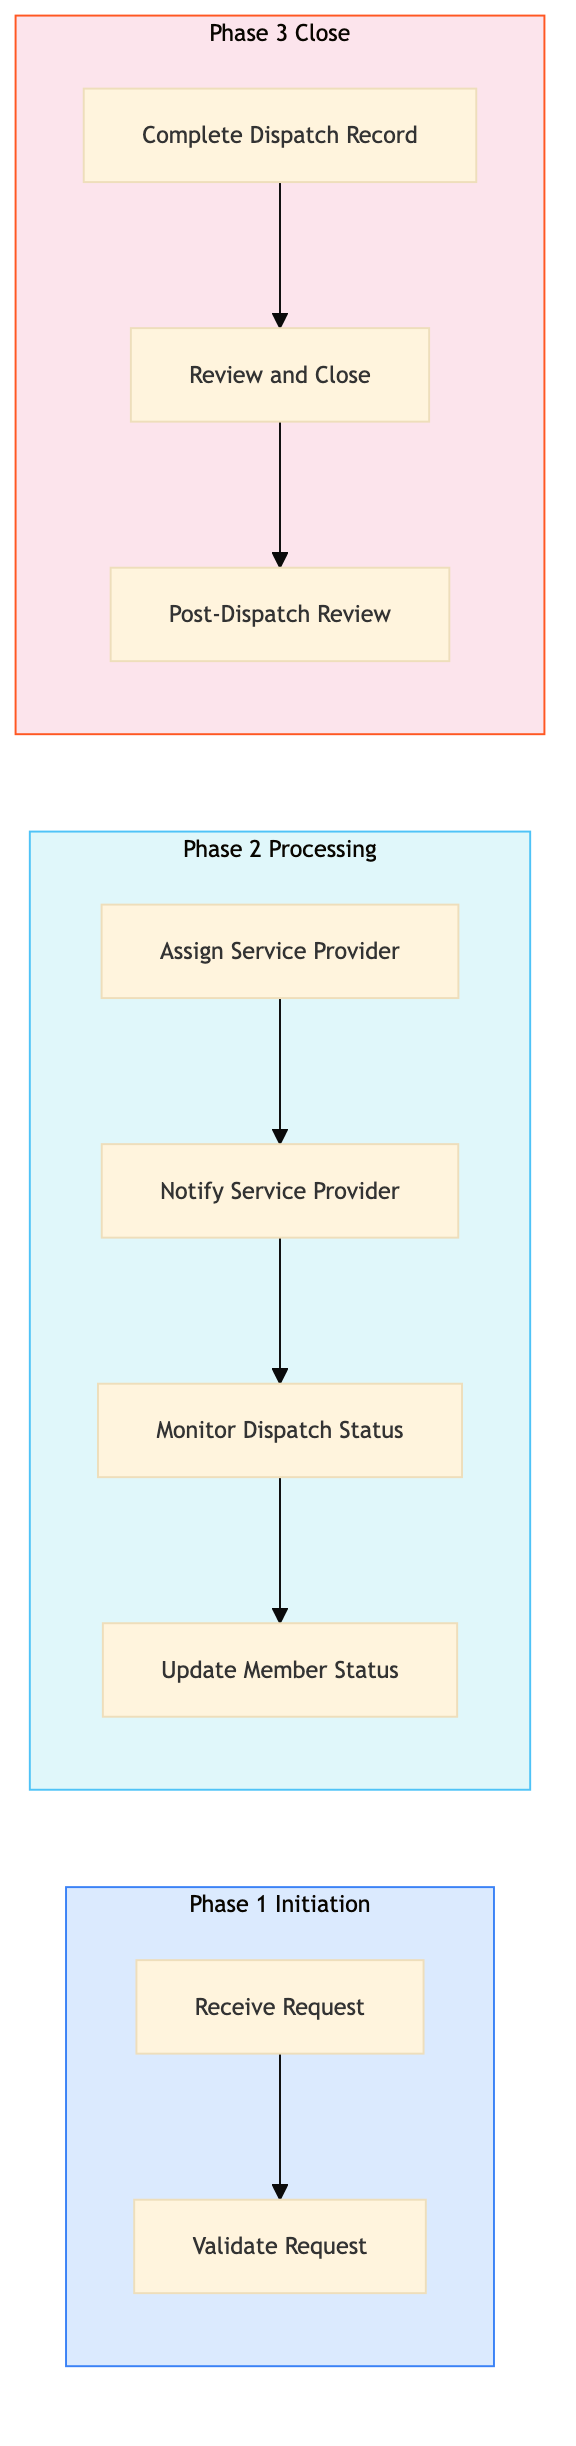
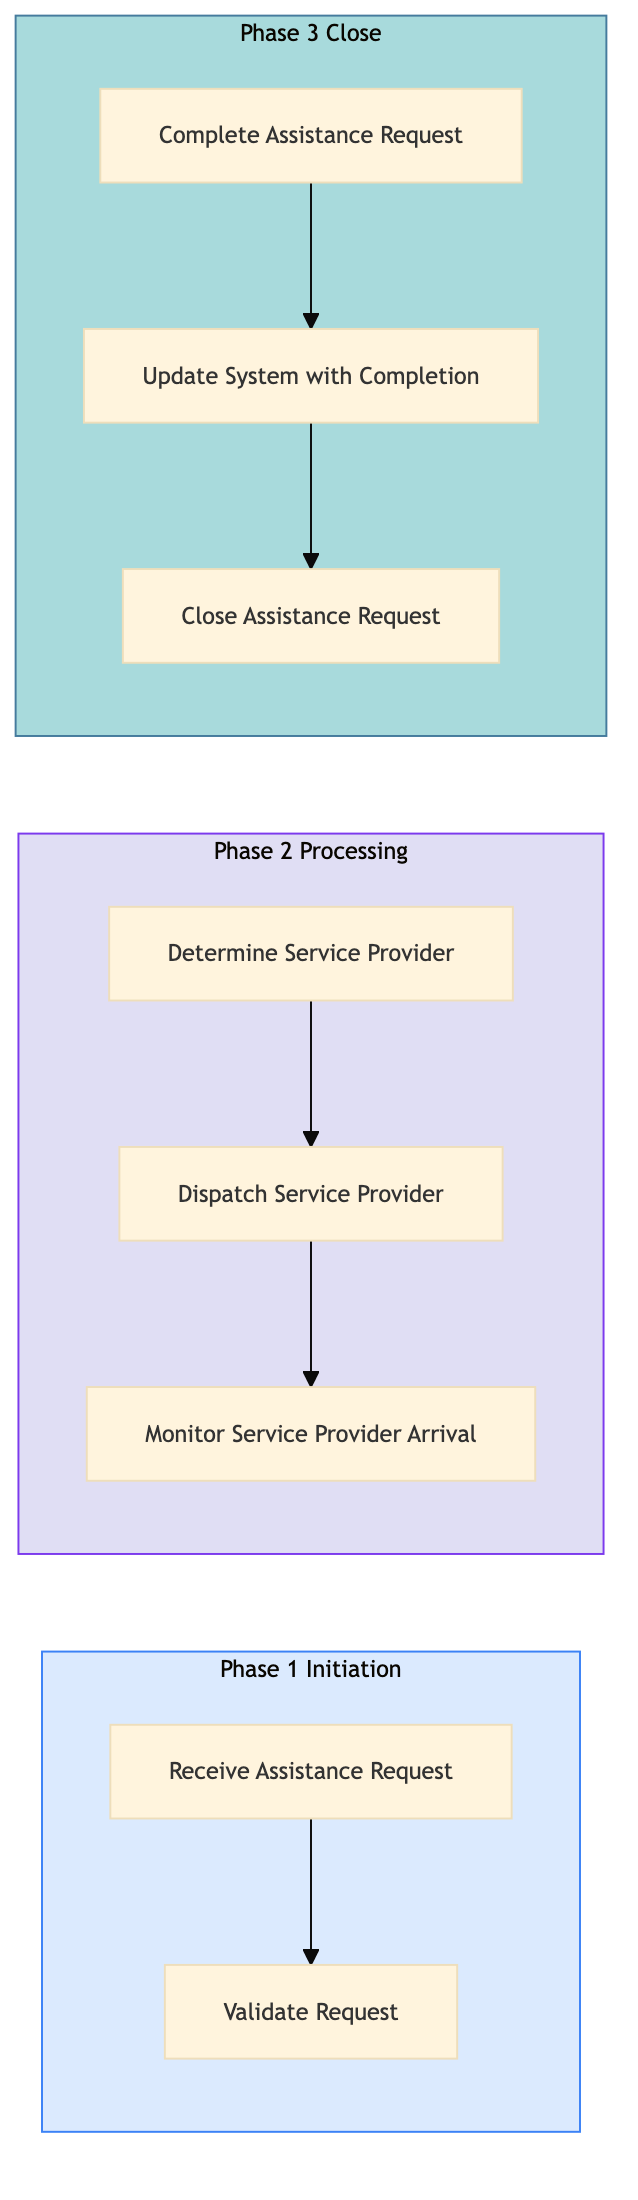
feat: add SHARED-RS-DI-04 — Service Provider Dispatch via Agero Swoop

diff --git a/shared-roadside/roadside-dispatch/shared-rs-di-04.html b/shared-roadside/roadside-dispatch/shared-rs-di-04.html
@@ -23,40 +23,16 @@
     <div class="nav-l2-group">
       <a class="nav-l2-title" href="../../shared-membership/membership-enrolment/index.html">Membership Enrolment & Sales</a>
       <div class="nav-l3-list">
-        <a class="nav-l3" href="../../shared-membership/membership-enrolment/shared-mb-en-01.html">SHARED-MB-EN-01 &mdash; New Member Walk-In Enrolment (Branch)</a>
-        <a class="nav-l3" href="../../shared-membership/membership-enrolment/shared-mb-en-02.html">SHARED-MB-EN-02 &mdash; Online Membership Self-Enrolment (Web/Ap</a>
-        <a class="nav-l3" href="../../shared-membership/membership-enrolment/shared-mb-en-03.html">SHARED-MB-EN-03 &mdash; Phone Enrolment via Contact Centre</a>
-        <a class="nav-l3" href="../../shared-membership/membership-enrolment/shared-mb-en-04.html">SHARED-MB-EN-04 &mdash; Affiliate and Employer Group Enrolment</a>
-        <a class="nav-l3" href="../../shared-membership/membership-enrolment/shared-mb-en-05.html">SHARED-MB-EN-05 &mdash; Membership Tier Selection and Upsell</a>
-        <a class="nav-l3" href="../../shared-membership/membership-enrolment/shared-mb-en-06.html">SHARED-MB-EN-06 &mdash; Payment Processing and First-Year Billin</a>
-        <a class="nav-l3" href="../../shared-membership/membership-enrolment/shared-mb-en-07.html">SHARED-MB-EN-07 &mdash; Welcome Kit and Digital Card Issuance</a>
-        <a class="nav-l3" href="../../shared-membership/membership-enrolment/shared-mb-en-08.html">SHARED-MB-EN-08 &mdash; Duplicate Member Detection and Merge</a>
       </div>
     </div>
     <div class="nav-l2-group">
       <a class="nav-l2-title" href="../../shared-membership/membership-renewal/index.html">Membership Renewal & Retention</a>
       <div class="nav-l3-list">
-        <a class="nav-l3" href="../../shared-membership/membership-renewal/shared-mb-rn-01.html">SHARED-MB-RN-01 &mdash; Annual Renewal Notice Generation and Dis</a>
-        <a class="nav-l3" href="../../shared-membership/membership-renewal/shared-mb-rn-02.html">SHARED-MB-RN-02 &mdash; Auto-Renewal Processing (Credit Card on </a>
-        <a class="nav-l3" href="../../shared-membership/membership-renewal/shared-mb-rn-03.html">SHARED-MB-RN-03 &mdash; Lapsed Member Reinstatement Campaign</a>
-        <a class="nav-l3" href="../../shared-membership/membership-renewal/shared-mb-rn-04.html">SHARED-MB-RN-04 &mdash; Membership Upgrade and Tier Change Proce</a>
-        <a class="nav-l3" href="../../shared-membership/membership-renewal/shared-mb-rn-05.html">SHARED-MB-RN-05 &mdash; Associate and Household Member Add-On Pr</a>
-        <a class="nav-l3" href="../../shared-membership/membership-renewal/shared-mb-rn-06.html">SHARED-MB-RN-06 &mdash; Cancellation Request Handling and Save O</a>
-        <a class="nav-l3" href="../../shared-membership/membership-renewal/shared-mb-rn-07.html">SHARED-MB-RN-07 &mdash; Renewal Rate Review and Pricing Update</a>
-        <a class="nav-l3" href="../../shared-membership/membership-renewal/shared-mb-rn-08.html">SHARED-MB-RN-08 &mdash; Membership Winback Campaign (12-36 Month</a>
       </div>
     </div>
     <div class="nav-l2-group">
       <a class="nav-l2-title" href="../../shared-membership/member-services/index.html">Member Services & Benefits</a>
       <div class="nav-l3-list">
-        <a class="nav-l3" href="../../shared-membership/member-services/shared-mb-sv-01.html">SHARED-MB-SV-01 &mdash; Member Discount Partner Redemption</a>
-        <a class="nav-l3" href="../../shared-membership/member-services/shared-mb-sv-02.html">SHARED-MB-SV-02 &mdash; Passport Photo Service Delivery (Branch)</a>
-        <a class="nav-l3" href="../../shared-membership/member-services/shared-mb-sv-03.html">SHARED-MB-SV-03 &mdash; International Driving Permit (IDP) Proce</a>
-        <a class="nav-l3" href="../../shared-membership/member-services/shared-mb-sv-04.html">SHARED-MB-SV-04 &mdash; Notary and Document Authentication Servi</a>
-        <a class="nav-l3" href="../../shared-membership/member-services/shared-mb-sv-05.html">SHARED-MB-SV-05 &mdash; Member Portal Profile and Preferences Ma</a>
-        <a class="nav-l3" href="../../shared-membership/member-services/shared-mb-sv-06.html">SHARED-MB-SV-06 &mdash; Lost and Stolen Membership Card Replacem</a>
-        <a class="nav-l3" href="../../shared-membership/member-services/shared-mb-sv-07.html">SHARED-MB-SV-07 &mdash; Member Data Privacy Request (CCPA and PI</a>
-        <a class="nav-l3" href="../../shared-membership/member-services/shared-mb-sv-08.html">SHARED-MB-SV-08 &mdash; Member Satisfaction Survey and NPS Track</a>
       </div>
     </div>
   </div>
@@ -349,7 +325,7 @@
           <span class="pid-badge org-badge-shared">SHARED</span>
           SHARED-RS-DI-04 &mdash; Service Provider Dispatch via Agero Swoop
         </h1>
-        <p>This process handles the dispatch of service providers for roadside assistance requests using Agero Swoop. It ensures timely and efficient response to members' needs.</p>
+        <p>The process of dispatching service providers via Agero Swoop for roadside assistance requests.</p>
       </div>
 
       <!-- BPMN Diagram -->
@@ -376,9 +352,9 @@
             <tr><th>L2 Process</th><td>Dispatch Operations</td></tr>
             <tr><th>L3 Name</th><td>Service Provider Dispatch via Agero Swoop</td></tr>
             <tr><th>Trigger</th><td>A member initiates a roadside assistance request through the AAA App or by contacting customer service.</td></tr>
-            <tr><th>Outcome</th><td>The requested service provider is dispatched to assist the member, and the dispatch details are recorded in the system for tracking and reporting purposes.</td></tr>
-            <tr><th>Org Notes</th><td>CAA SCO may have additional regulatory requirements due to FSRA oversight. CAA SCO also uses different telematics systems (CAA Connect) compared to AAA Northeast's DriveAssist.</td></tr>
-            <tr><th>Systems</th><td><span class="sys-tag aaa-app">AAA App</span> <span class="sys-tag salesforce">Salesforce</span> <span class="sys-tag sap">SAP S/4HANA</span> <span class="sys-tag guidewire">Guidewire PolicyCenter</span> <span class="sys-tag agero">Agero Swoop</span></td></tr>
+            <tr><th>Outcome</th><td>A qualified service provider is dispatched to assist the member with their roadside issue.</td></tr>
+            <tr><th>Org Notes</th><td>CAA SCO uses additional telematics data from CAA Connect for dispatch decisions, whereas AAA Northeast relies solely on Agero Swoop.</td></tr>
+            <tr><th>Systems</th><td><span class="sys-tag aaa-app">AAA App</span> <span class="sys-tag salesforce">Salesforce</span> <span class="sys-tag guidewire">Guidewire PolicyCenter</span> <span class="sys-tag agero">Agero Swoop</span> <span class="sys-tag guidewire">Guidewire ClaimCenter</span></td></tr>
           </table>
         </div>
       </div>
@@ -399,109 +375,97 @@
               <tbody>
         <tr>
           <td class="step-num">1.1</td>
-          <td>Receive Request</td>
-          <td>Roadside Assistance Dispatcher</td>
+          <td>Receive Assistance Request</td>
+          <td>Roadside Assistance Coordinator</td>
           <td><span class="sys-tag salesforce">AAA App / Salesforce</span></td>
-          <td>Member request details</td>
+          <td>Member's assistance request</td>
           <td>Request logged in system</td>
-          <td>Response time to log request < 5 minutes</td>
-          <td>Delayed logging of requests</td>
+          <td>Response time within 3 minutes</td>
+          <td>Delayed response times affecting member satisfaction</td>
           <td>N</td>
           <td><span class="exception-y">Y</span></td>
         </tr>
         <tr>
           <td class="step-num">1.2</td>
           <td>Validate Request</td>
-          <td>Roadside Assistance Dispatcher</td>
-          <td><span class="sys-tag guidewire">SAP S/4HANA / Guidewire PolicyCenter</span></td>
+          <td>Claims Adjuster</td>
+          <td><span class="sys-tag guidewire">Guidewire PolicyCenter</span></td>
           <td>Logged request details</td>
-          <td>Validation result</td>
-          <td>Request validation accuracy > 95%</td>
-          <td>Incorrect request validations</td>
+          <td>Validation report</td>
+          <td>95% validation accuracy</td>
+          <td>Incorrect validations leading to missed dispatches</td>
           <td><span class="decision-y">Y</span></td>
           <td>N</td>
         </tr>
         <tr>
-          <td class="step-num">1.3</td>
-          <td>Assign Service Provider</td>
-          <td>Roadside Assistance Dispatcher</td>
-          <td><span class="sys-tag agero">Agero Swoop</span></td>
-          <td>Validated request details</td>
-          <td>Assigned service provider</td>
-          <td>Average dispatch time < 10 minutes</td>
-          <td>Long wait times for dispatch</td>
-          <td>N</td>
-          <td><span class="exception-y">Y</span></td>
-        </tr>
-        <tr>
           <td class="step-num">2.1</td>
-          <td>Notify Service Provider</td>
-          <td>Roadside Assistance Dispatcher</td>
-          <td><span class="sys-tag agero">Agero Swoop / SMS Gateway</span></td>
-          <td>Assigned service provider details</td>
-          <td>Notification sent</td>
-          <td>Notification success rate > 98%</td>
-          <td>Failed notifications to service providers</td>
-          <td>N</td>
+          <td>Determine Service Provider</td>
+          <td>Dispatch Coordinator</td>
+          <td><span class="sys-tag agero">Agero Swoop</span></td>
+          <td>Validation report</td>
+          <td>Service provider assignment</td>
+          <td>90% successful dispatch rate</td>
+          <td>Inadequate service provider availability</td>
+          <td><span class="decision-y">Y</span></td>
           <td><span class="exception-y">Y</span></td>
         </tr>
         <tr>
           <td class="step-num">2.2</td>
-          <td>Monitor Dispatch Status</td>
-          <td>Roadside Assistance Dispatcher</td>
-          <td><span class="sys-tag agero">Agero Swoop / Telematics System (DriveAssist)</span></td>
-          <td>Dispatch details</td>
-          <td>Status updates</td>
-          <td>Real-time status update accuracy > 90%</td>
-          <td>Inaccurate or delayed status updates</td>
-          <td><span class="decision-y">Y</span></td>
-          <td>N</td>
-        </tr>
-        <tr>
-          <td class="step-num">2.3</td>
-          <td>Update Member Status</td>
-          <td>Roadside Assistance Dispatcher</td>
-          <td><span class="sys-tag salesforce">AAA App / Salesforce</span></td>
-          <td>Service provider status</td>
-          <td>Member notification</td>
-          <td>Member notification accuracy > 95%</td>
-          <td>Incorrect member notifications</td>
+          <td>Dispatch Service Provider</td>
+          <td>Dispatch Coordinator</td>
+          <td><span class="sys-tag agero">Agero Swoop</span></td>
+          <td>Service provider assignment</td>
+          <td>Dispatch confirmation</td>
+          <td>98% dispatch confirmation rate</td>
+          <td>Failed dispatch attempts</td>
           <td>N</td>
           <td><span class="exception-y">Y</span></td>
         </tr>
         <tr>
           <td class="step-num">3.1</td>
-          <td>Complete Dispatch Record</td>
-          <td>Roadside Assistance Dispatcher</td>
-          <td><span class="sys-tag guidewire">SAP S/4HANA / Guidewire ClaimCenter</span></td>
-          <td>Final dispatch details</td>
-          <td>Dispatch record completed</td>
-          <td>Completion rate > 98%</td>
-          <td>Incomplete dispatch records</td>
+          <td>Monitor Service Provider Arrival</td>
+          <td>Roadside Assistance Coordinator</td>
+          <td><span class="sys-tag agero">Agero Swoop</span></td>
+          <td>Dispatch confirmation</td>
+          <td>Arrival status update</td>
+          <td>95% on-time arrival rate</td>
+          <td>Delays in service provider arrival</td>
+          <td><span class="decision-y">Y</span></td>
           <td>N</td>
-          <td><span class="exception-y">Y</span></td>
         </tr>
         <tr>
           <td class="step-num">3.2</td>
-          <td>Review and Close</td>
-          <td>Roadside Assistance Dispatcher</td>
-          <td><span class="sys-tag guidewire">SAP S/4HANA / Guidewire ClaimCenter</span></td>
-          <td>Dispatch record</td>
-          <td>Case closed</td>
-          <td>Closure rate > 95%</td>
-          <td>Cases left open</td>
+          <td>Complete Assistance Request</td>
+          <td>Service Provider</td>
+          <td><span class="sys-tag agero">Agero Swoop</span></td>
+          <td>Arrival status update</td>
+          <td>Assistance completion report</td>
+          <td>90% successful assistance rate</td>
+          <td>Failed assistance attempts</td>
           <td>N</td>
           <td><span class="exception-y">Y</span></td>
         </tr>
         <tr>
           <td class="step-num">3.3</td>
-          <td>Post-Dispatch Review</td>
-          <td>Roadside Assistance Manager</td>
-          <td><span class="sys-tag sap">SAP S/4HANA / Power BI</span></td>
-          <td>Dispatch data</td>
-          <td>Performance report</td>
-          <td>Review accuracy > 90%</td>
-          <td>Inaccurate performance reports</td>
+          <td>Update System with Completion</td>
+          <td>Roadside Assistance Coordinator</td>
+          <td><span class="sys-tag guidewire">Guidewire ClaimCenter</span></td>
+          <td>Assistance completion report</td>
+          <td>Updated claim record</td>
+          <td>100% accurate claim updates</td>
+          <td>Inaccurate claim data entry</td>
+          <td>N</td>
+          <td><span class="exception-y">Y</span></td>
+        </tr>
+        <tr>
+          <td class="step-num">3.4</td>
+          <td>Close Assistance Request</td>
+          <td>Roadside Assistance Coordinator</td>
+          <td><span class="sys-tag salesforce">AAA App / Salesforce</span></td>
+          <td>Updated claim record</td>
+          <td>Closed request notification</td>
+          <td>95% satisfaction rate from members</td>
+          <td>Unsatisfied members due to poor service</td>
           <td>N</td>
           <td><span class="exception-y">Y</span></td>
         </tr>
@@ -516,9 +480,9 @@
         <div class="card-header">&#x1F4CA; KPIs &amp; Risk Register</div>
         <div class="card-body">
           <p class="mb-8"><strong>KPIs</strong></p>
-          <div class="kpi-list mb-8"><span class="kpi-pill">Response time to log request < 5 minutes</span> <span class="kpi-pill">Request validation accuracy > 95%</span> <span class="kpi-pill">Average dispatch time < 10 minutes</span> <span class="kpi-pill">Notification success rate > 98%</span> <span class="kpi-pill">Real-time status update accuracy > 90%</span> <span class="kpi-pill">Member notification accuracy > 95%</span> <span class="kpi-pill">Completion rate > 98%</span> <span class="kpi-pill">Closure rate > 95%</span> <span class="kpi-pill">Review accuracy > 90%</span></div>
+          <div class="kpi-list mb-8"><span class="kpi-pill">Response time within 3 minutes</span> <span class="kpi-pill">95% validation accuracy</span> <span class="kpi-pill">90% successful dispatch rate</span> <span class="kpi-pill">98% dispatch confirmation rate</span> <span class="kpi-pill">95% on-time arrival rate</span> <span class="kpi-pill">90% successful assistance rate</span> <span class="kpi-pill">100% accurate claim updates</span> <span class="kpi-pill">95% satisfaction rate from members</span></div>
           <p class="mb-8" style="margin-top:16px"><strong>Key Risks</strong></p>
-          <div class="kpi-list"><span class="risk-pill">System downtime affecting request logging</span> <span class="risk-pill">Incorrect policy validation leading to improper dispatch</span> <span class="risk-pill">Service provider unavailability causing delays</span> <span class="risk-pill">Failed notifications resulting in missed assistance</span> <span class="risk-pill">Inaccurate status updates due to system issues</span></div>
+          <div class="kpi-list"><span class="risk-pill">Inadequate service provider availability</span> <span class="risk-pill">Failed dispatch attempts</span> <span class="risk-pill">Delays in service provider arrival</span> <span class="risk-pill">Failed assistance attempts</span> <span class="risk-pill">Inaccurate claim data entry</span> <span class="risk-pill">Unsatisfied members due to poor service</span></div>
         </div>
       </div>
 

diff --git a/shared-roadside/roadside-dispatch/index.html b/shared-roadside/roadside-dispatch/index.html
@@ -161,6 +161,7 @@
       <div class="nav-l3-list">
         <a class="nav-l3" href="../../shared-roadside/roadside-dispatch/shared-rs-di-01.html">SHARED-RS-DI-01 &mdash; Member Call Intake and Coverage Verifica</a>
         <a class="nav-l3" href="../../shared-roadside/roadside-dispatch/shared-rs-di-02.html">SHARED-RS-DI-02 &mdash; Digital Request Intake (App and Web Self</a>
+        <a class="nav-l3" href="../../shared-roadside/roadside-dispatch/shared-rs-di-03.html">SHARED-RS-DI-03 &mdash; Breakdown Type Classification and Servic</a>
       </div>
     </div>
     <div class="nav-l2-group">
@@ -317,7 +318,7 @@
           <a href="../index.html">Roadside Assistance</a>
         </div>
         <h1>🚨 Dispatch Operations</h1>
-        <p>2 of 8 processes complete</p>
+        <p>3 of 8 processes complete</p>
       </div>
       <div class="card">
         <div class="card-header">Process List</div>
@@ -326,7 +327,7 @@
             <thead><tr><th>PID</th><th>L3 Process Name</th><th>Status</th></tr></thead>
             <tbody><tr><td><a href="shared-rs-di-01.html">SHARED-RS-DI-01</a></td><td>Member Call Intake and Coverage Verification</td><td><span style="color:#16a34a;font-weight:700">&#x2705; Complete</span></td></tr>
 <tr><td><a href="shared-rs-di-02.html">SHARED-RS-DI-02</a></td><td>Digital Request Intake (App and Web Self-Serve)</td><td><span style="color:#16a34a;font-weight:700">&#x2705; Complete</span></td></tr>
-<tr><td>SHARED-RS-DI-03</td><td>Breakdown Type Classification and Service Code Assignment</td><td><span style="color:#94a3b8">&#x23F3; Queued</span></td></tr>
+<tr><td><a href="shared-rs-di-03.html">SHARED-RS-DI-03</a></td><td>Breakdown Type Classification and Service Code Assignment</td><td><span style="color:#16a34a;font-weight:700">&#x2705; Complete</span></td></tr>
 <tr><td>SHARED-RS-DI-04</td><td>Service Provider Dispatch via Agero Swoop</td><td><span style="color:#94a3b8">&#x23F3; Queued</span></td></tr>
 <tr><td>SHARED-RS-DI-05</td><td>Real-Time GPS Tracking and ETA Communication to Member</td><td><span style="color:#94a3b8">&#x23F3; Queued</span></td></tr>
 <tr><td>SHARED-RS-DI-06</td><td>Service Provider On-Scene Confirmation and Job Completion</td><td><span style="color:#94a3b8">&#x23F3; Queued</span></td></tr>

diff --git a/index.html b/index.html
@@ -161,6 +161,7 @@
       <div class="nav-l3-list">
         <a class="nav-l3" href="shared-roadside/roadside-dispatch/shared-rs-di-01.html">SHARED-RS-DI-01 &mdash; Member Call Intake and Coverage Verifica</a>
         <a class="nav-l3" href="shared-roadside/roadside-dispatch/shared-rs-di-02.html">SHARED-RS-DI-02 &mdash; Digital Request Intake (App and Web Self</a>
+        <a class="nav-l3" href="shared-roadside/roadside-dispatch/shared-rs-di-03.html">SHARED-RS-DI-03 &mdash; Breakdown Type Classification and Servic</a>
       </div>
     </div>
     <div class="nav-l2-group">
@@ -317,11 +318,11 @@
       </div>
 
       <div class="stats-bar">
-        <div class="stat-card"><div class="stat-num">70</div><div class="stat-label">Processes Complete</div></div>
+        <div class="stat-card"><div class="stat-num">71</div><div class="stat-label">Processes Complete</div></div>
         <div class="stat-card"><div class="stat-num">268</div><div class="stat-label">Total Processes</div></div>
         <div class="stat-card"><div class="stat-num">34</div><div class="stat-label">AAA Complete</div></div>
         <div class="stat-card"><div class="stat-num caa-red">34</div><div class="stat-label">CAA Complete</div></div>
-        <div class="stat-card"><div class="stat-num">2</div><div class="stat-label">Shared Complete</div></div>
+        <div class="stat-card"><div class="stat-num">3</div><div class="stat-label">Shared Complete</div></div>
       </div>
 
       <div class="domain-grid">
@@ -355,7 +356,7 @@
         <span class="nav-org-dot shared" style="display:inline-block;margin-right:4px"></span>
         SHARED
       </p>
-      <p class="card-count">2 / 24 processes complete</p>
+      <p class="card-count">3 / 24 processes complete</p>
     </div>
     <div class="domain-card org-shared">
       <h3><a href="shared-travel/index.html">✈ Travel Agency & Packages</a></h3>

diff --git a/shared-roadside/index.html b/shared-roadside/index.html
@@ -161,6 +161,7 @@
       <div class="nav-l3-list">
         <a class="nav-l3" href="../shared-roadside/roadside-dispatch/shared-rs-di-01.html">SHARED-RS-DI-01 &mdash; Member Call Intake and Coverage Verifica</a>
         <a class="nav-l3" href="../shared-roadside/roadside-dispatch/shared-rs-di-02.html">SHARED-RS-DI-02 &mdash; Digital Request Intake (App and Web Self</a>
+        <a class="nav-l3" href="../shared-roadside/roadside-dispatch/shared-rs-di-03.html">SHARED-RS-DI-03 &mdash; Breakdown Type Classification and Servic</a>
       </div>
     </div>
     <div class="nav-l2-group">
@@ -314,11 +315,11 @@
       <div class="page-header">
         <div class="breadcrumb"><a href="../index.html">Home</a></div>
         <h1>🚨 Roadside Assistance</h1>
-        <p>2 of 24 processes complete across 3 process groups</p>
+        <p>3 of 24 processes complete across 3 process groups</p>
       </div>
       <div class="domain-grid">    <div class="domain-card org-shared">
       <h3><a href="roadside-dispatch/index.html">Dispatch Operations</a></h3>
-      <p class="card-meta">2/8 processes complete</p>
+      <p class="card-meta">3/8 processes complete</p>
     </div>
     <div class="domain-card org-shared">
       <h3><a href="roadside-service-delivery/index.html">Roadside Service Delivery</a></h3>
